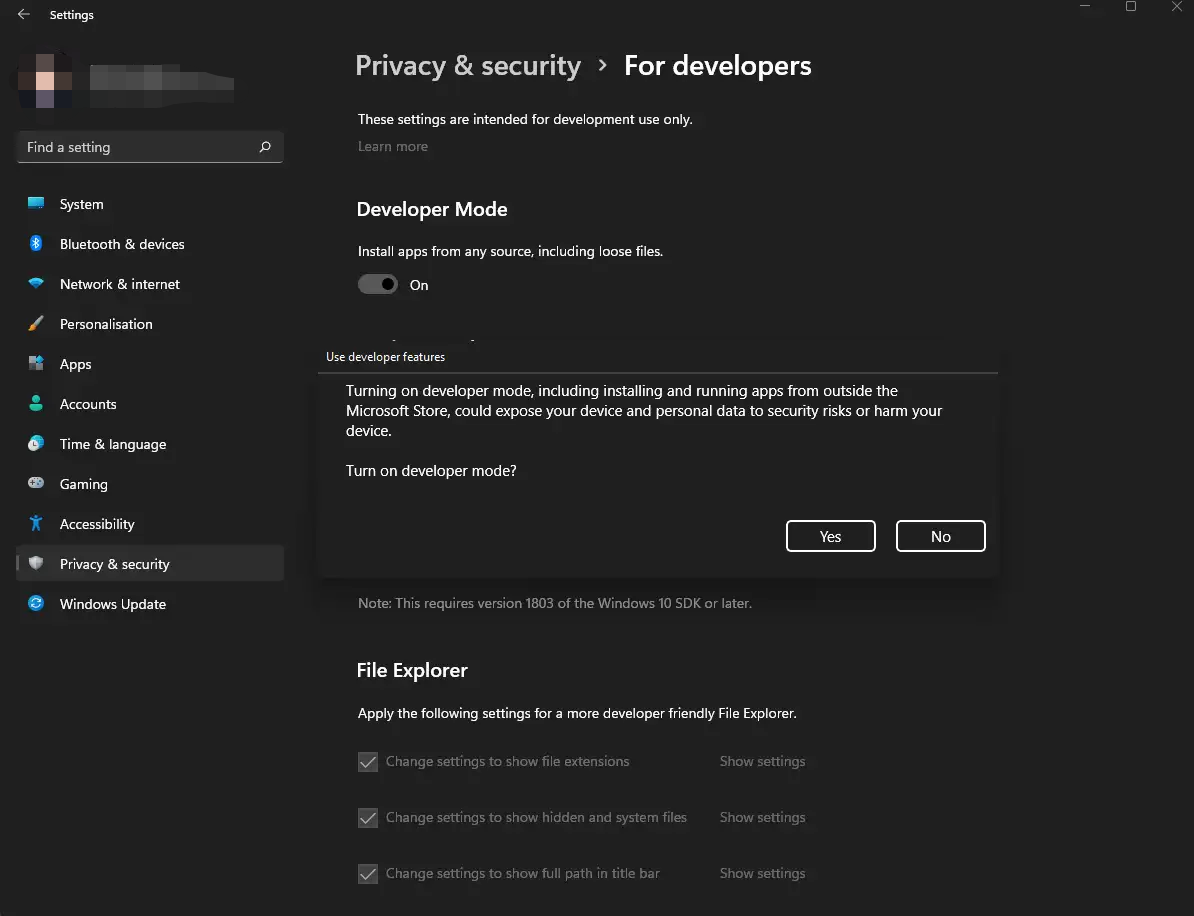
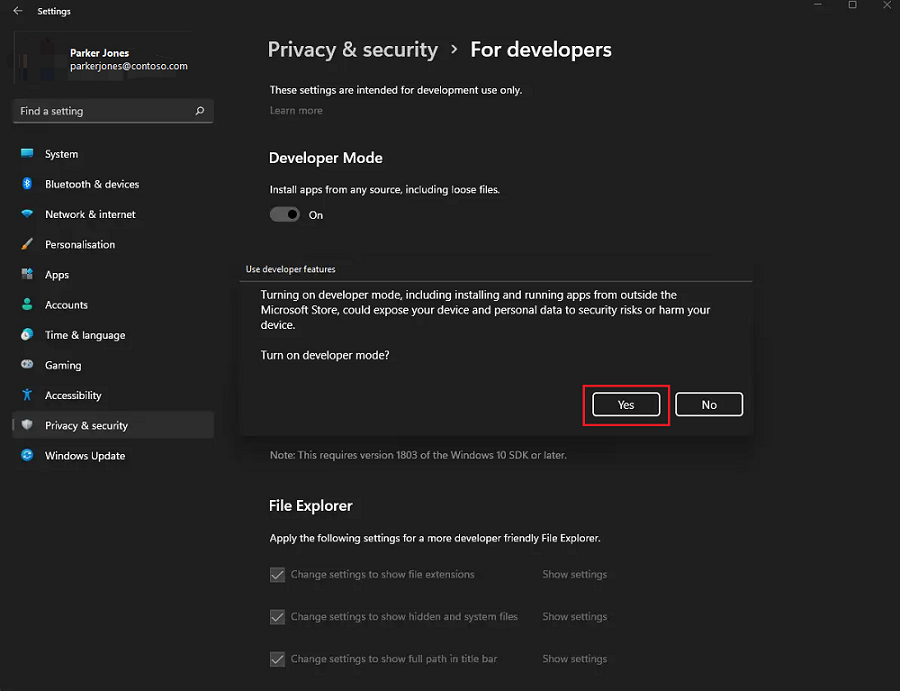
update image to standards

diff --git a/windows-apps-src/get-started/create-a-hello-world-app-xaml-universal.md b/windows-apps-src/get-started/create-a-hello-world-app-xaml-universal.md
@@ -28,7 +28,7 @@ Here you'll learn how to:
 > [!NOTE]
 > This tutorial is using Visual Studio Community 2017. If you are using a different version of Visual Studio, it may look a little different for you.
 
-## Step 1: Create a new project in Visual Studio.
+## Step 1: Create a new project in Visual Studio
 
 1.  Launch Visual Studio.
 
@@ -44,10 +44,11 @@ Here you'll learn how to:
 
     ![The new project window](images/win10-cs-01.png)
 
-> [!NOTE]
-> If this is the first time you have used Visual Studio, you might see a Settings dialog asking you to enable **Developer mode**. Developer mode is a special setting that enables certain features, such as permission to run apps directly, rather than only from the Store. For more information, please read [Enable your device for development](/windows/apps/get-started/enable-your-device-for-development). To continue with this guide, select **Developer mode**, click **Yes**, and close the dialog.
-
- ![Activate Developer mode dialog](images/win10-cs-00.png)
+    > [!NOTE]
+    > If this is the first time you have used Visual Studio, you might see a Settings dialog asking you to enable **Developer mode**. Developer mode is a special setting that enables certain features, such as permission to run apps directly, rather than only from the Store. For more information, please read [Enable your device for development](/windows/apps/get-started/enable-your-device-for-development). To continue with this guide, select **Developer mode**, click **Yes**, and close the dialog.
+    >
+    > ![Activate Developer mode dialog](images/win10-cs-00.png)
+    >
 
 5.  The target version/minimum version dialog appears. The default settings are fine for this tutorial, so select **OK** to create the project.
 
@@ -89,7 +90,7 @@ To view and edit a file in your project, double-click the file in the **Solution
 -   Assets/SplashScreen.scale-200.png is the splash screen that appears when your app starts.
 -   Assets/LockScreenLogo.scale-200.png can be used to represent the app on the lock screen, when the system is locked.
 
-## Step 2: Adding a button
+## Step 2: Add a button
 
 ### Using the designer view
 
